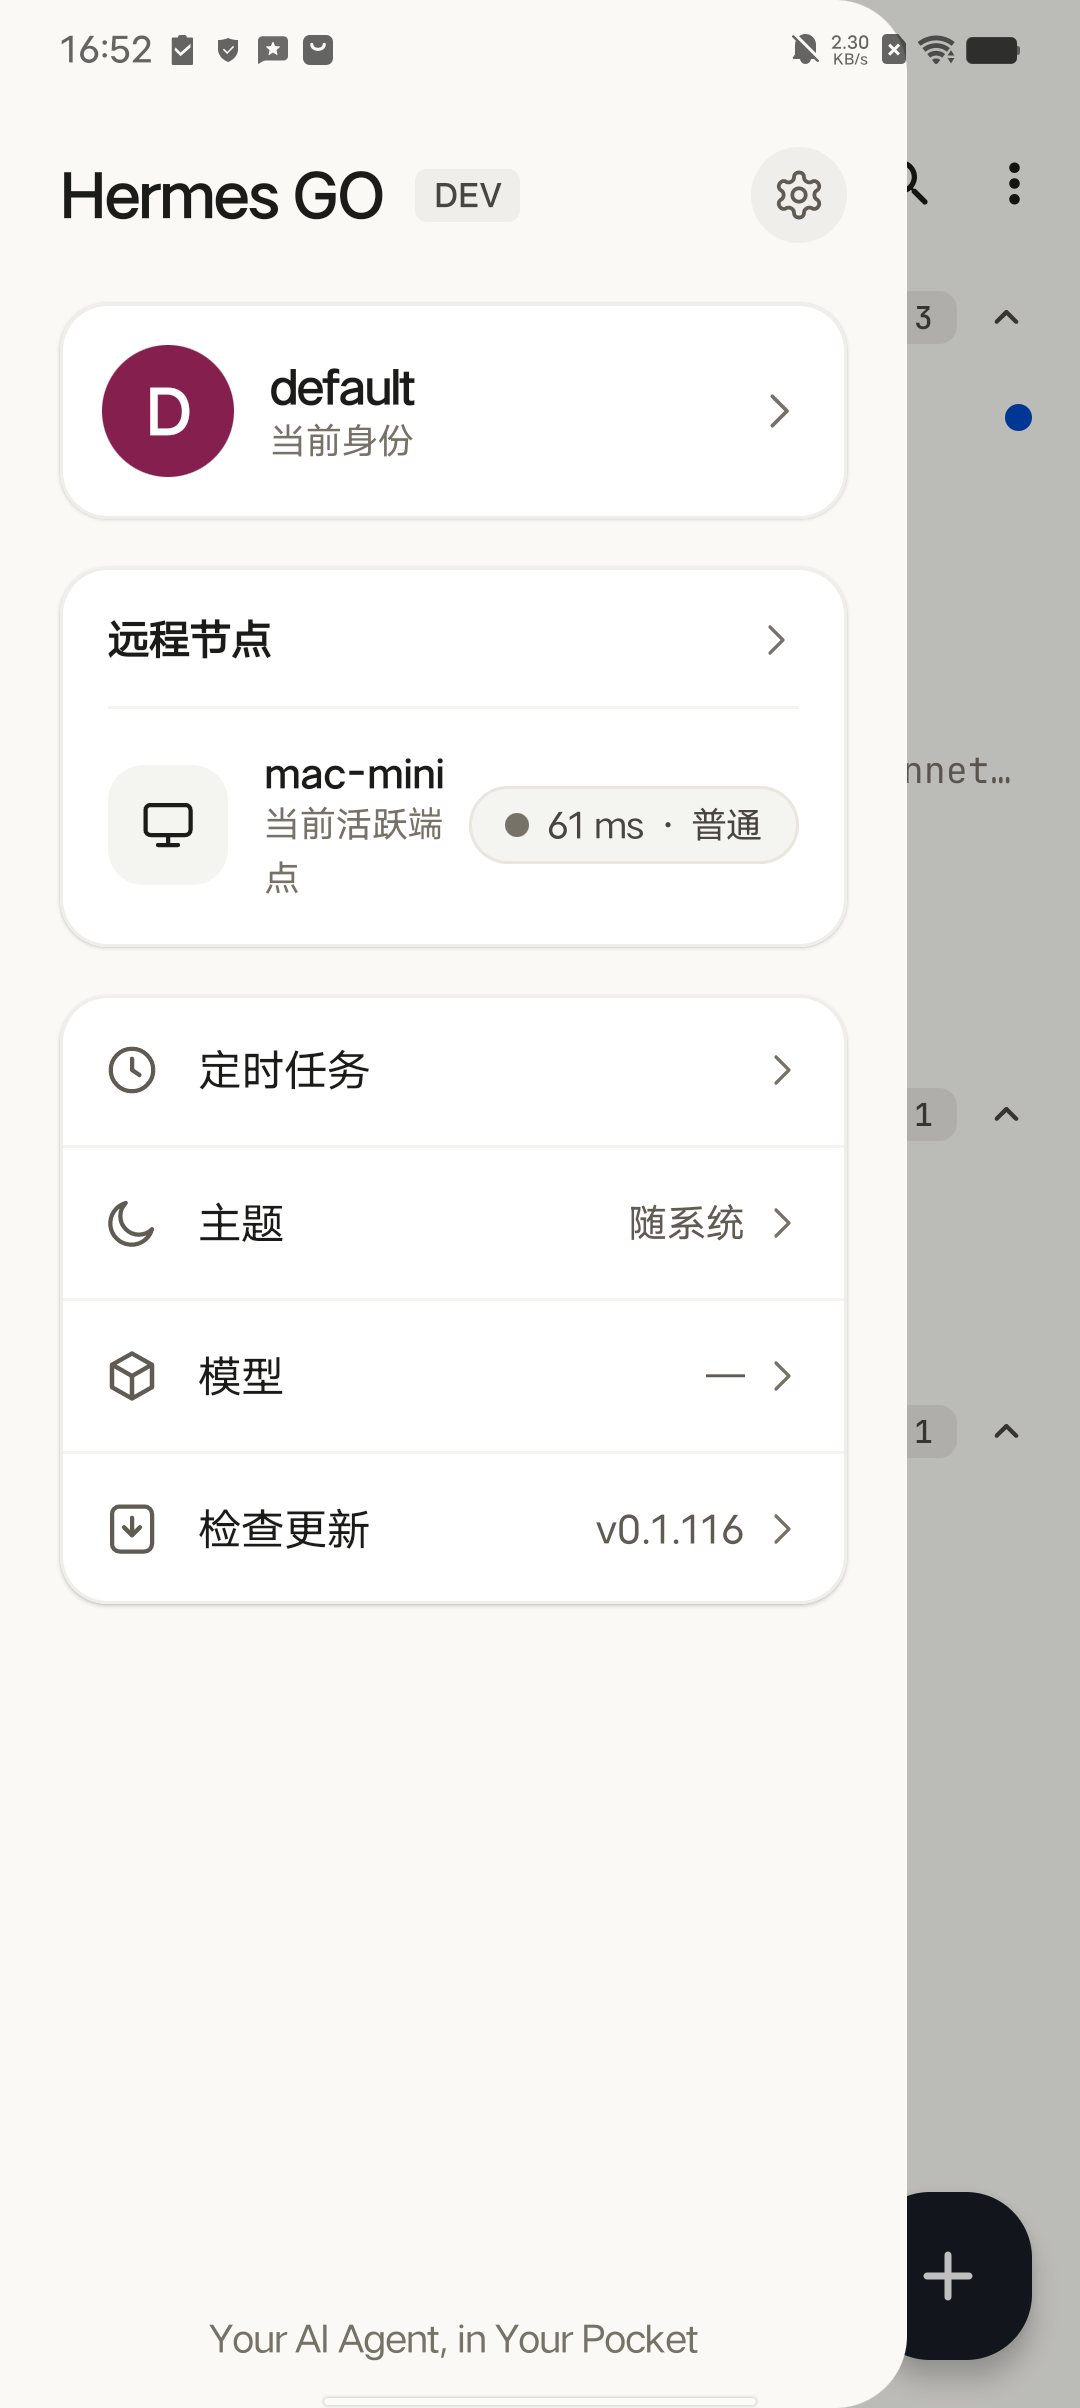
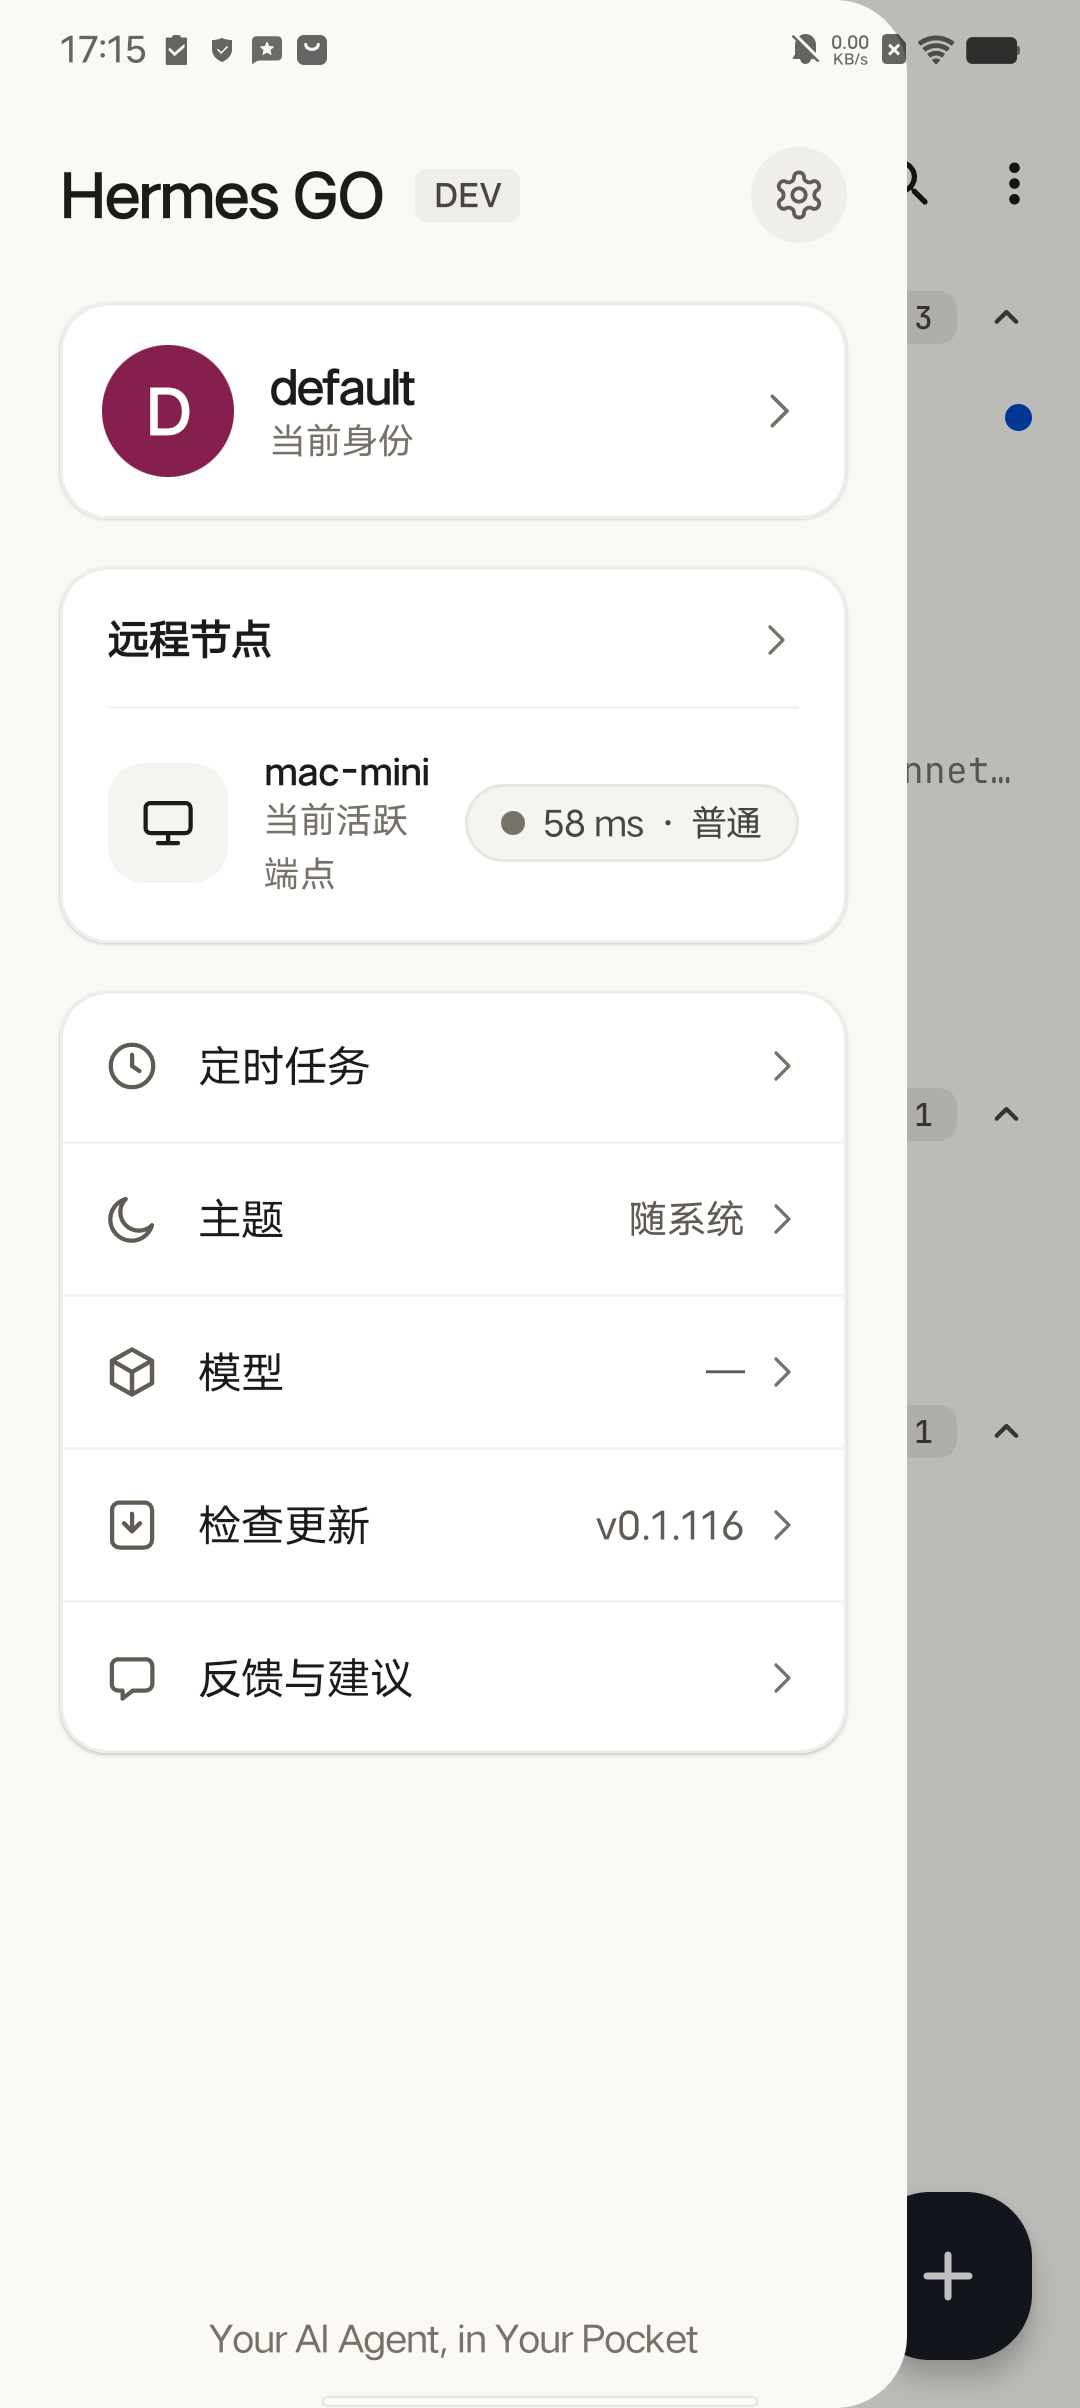
docs: how to enable the feedback row on a local build, and what back does in the editor
The 反馈与建议 row needs MissionGo credentials in the gitignored
android/missiongo.properties; without them the row is absent by design, which is
why it never showed on this machine's builds. DEVICE_TESTING.md now says where
the file goes and that the token must never be committed or pasted into chat.

Verified end to end on vivo V2166BA: the row appears under 检查更新, the editor
opens with 产品 Hermes GO / 平台 Android prefilled. Recorded one SDK-side
behaviour found there — back inside the editor drops the whole task to the
launcher instead of returning to the card page; the app process survives and
reopening restores it. Our launcher code is not involved.

diff --git a/docs/DEVICE_TESTING.md b/docs/DEVICE_TESTING.md
@@ -151,6 +151,25 @@ adb -s <serial> exec-out screencap -p > screen.png
   停在"生成中"。多轮对话要在「Mock 会话」里造。
 - mock 会弹出审批和澄清弹层，挡住滑动手势 —— 先点「拒绝」或「跳过，让 agent 自行判断」关掉。
 
+## 3b. 卡片页的「反馈与建议」行需要本机配置
+
+这一行只在构建携带 MissionGo 的 endpoint 与 SDK token 时存在（`android/app/build.gradle.kts` 配置期读取，
+两者任一为空 = 功能不存在，不报错）。新克隆、他人机器与普通 CI 都没有，所以**本机打的调试包默认看不到这一行**，
+这是设计，不是 bug。要在真机上验它，在 `android/missiongo.properties` 写：
+
+```properties
+missiongoEndpoint=https://missiongo.mrlgs.net
+missiongoSdkToken=<从 MissionGo 控制台取>
+```
+
+该文件已被仓库根 `.gitignore` 忽略（第 12 行），**不要提交、不要把 token 贴进聊天或日志**。
+发布包的这两个值由 `.github/workflows/android-release.yml` 从仓库 secrets 注入，与本文件同一对。
+改完要重新构建：Gradle 在配置期读它并写进 `BuildConfig`。
+
+**已知行为（2026-09-11 vivo V2166BA 实测）**：编辑器是 MissionGo SDK 自己的 Activity；在编辑器里按返回会把
+整个应用任务退到桌面，而不是回到卡片页。应用进程仍在，重新点图标即恢复原状态。与本仓的调起代码无关
+（`ui/feedback/FeedbackEntry.kt` 只把宿主 Activity 交给 SDK），要修得在 SDK 侧。
+
 ## 4. 驱动与取证
 
 - `adb shell input text` 不接受非 ASCII 字符（会抛 NPE）。用 ASCII，空格写成 `%s`。

diff --git a/docs/design/card-page/README.md b/docs/design/card-page/README.md
@@ -31,6 +31,7 @@
 | `05-profile-picker-light.png` | 点身份卡进入的「身份」选择页（子页面，供理解上下文） |
 | `06-v4-device-vivo-light.png` | **改版后**实拍：vivo V2166BA（Android 13），本地 mock 栈，浅色 |
 | `07-v4-device-vivo-dark.png` | **改版后**实拍：同一台，应用内切「深色」（系统浅色） |
+| `08-feedback-editor-vivo.png` | 点「反馈与建议」拉起的 MissionGo 编辑器（本机配好 `android/missiongo.properties` 后实拍） |
 
 **截图里没有覆盖到、但设计必须考虑的状态**（mock 环境造不出来）见 §5。
 
